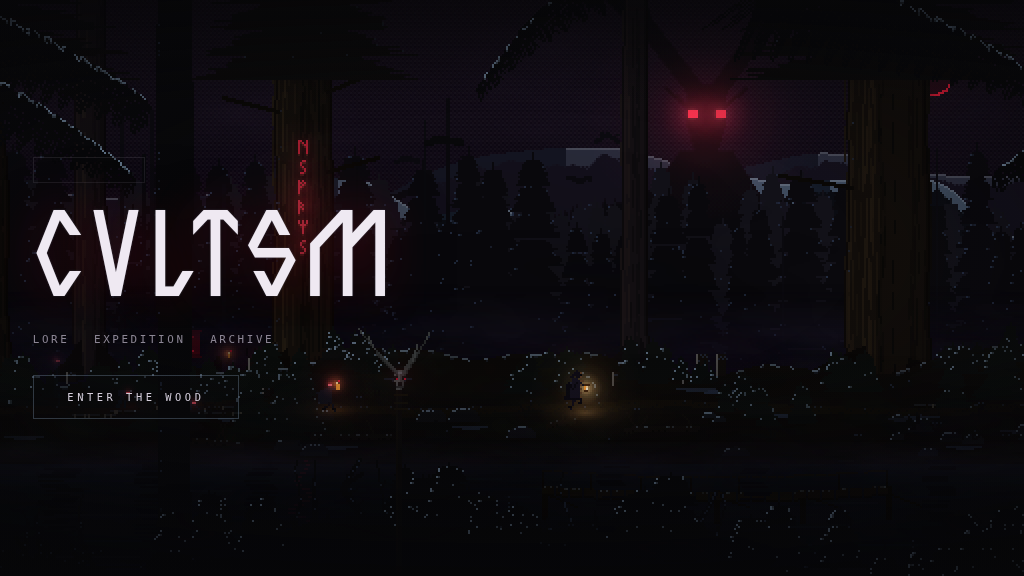
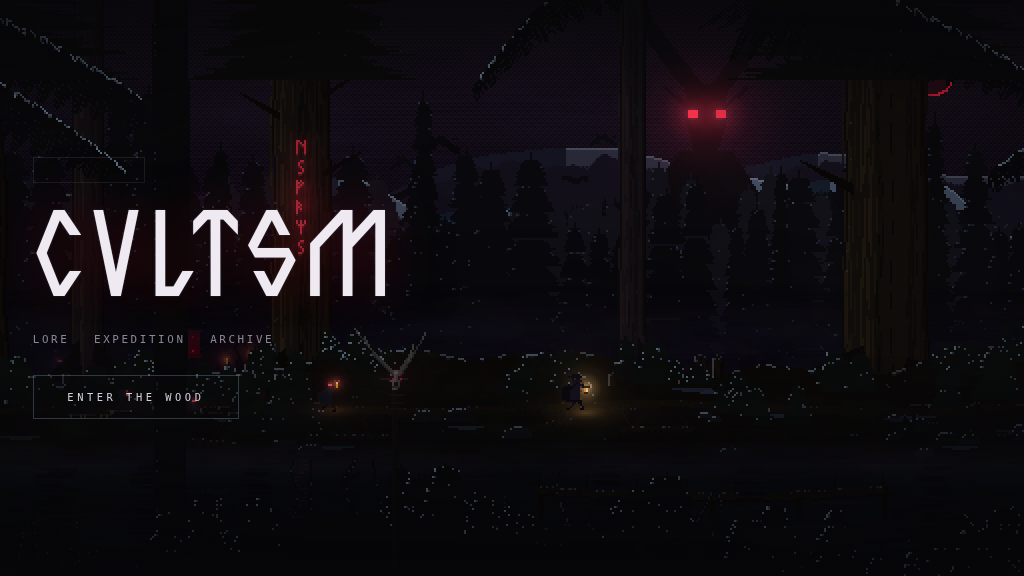
Fix bare poles and stray sticks in the background forest
Three separate sources, all of which rendered as a bare line rather than
anything that reads as a tree.

- The deep forest scattered "bare trunks between the pines" were literally
  flat-topped rectangles 1-3px wide, ending in open sky wherever their random
  height ran out. They are narrow conifers now: same job of breaking up the
  canopy line, but with a crown on top.
- The sentinel limb stubs reached out up to 2.6 trunk-widths while rising only
  a couple of pixels, so they read as sticks floating beside the tree. Drawn
  as tapered wedges now, short and clearly attached.
- Stumps sat at almost pure black with a lit 1px left edge, so the only thing
  that actually rendered was that edge — a bare vertical line standing in the
  undergrowth. The trunk carries its own tone now and the top is splintered
  per column rather than cut square.

Found by rendering the background at 3.4x brightness and scanning four
positions along the world, since at the scene's real exposure these read as
faint lines rather than obvious faults.

Verified: 60fps with no frame over 20ms, no tile seams, no console errors, no
mobile overflow, reduced-motion still byte-identical.

Claude-Session: https://claude.ai/code/session_01GcsBKBmhDLEgLM9aY7efkW

diff --git a/js/scene/deepforest.js b/js/scene/deepforest.js
@@ -12,7 +12,7 @@ import {
   mix, clamp, glow, hexToRgb, shadeRegion,
 } from '../lib/paint.js';
 import { PAL } from '../palette.js';
-import { drawForestBand } from './trees.js';
+import { drawForestBand, drawPine } from './trees.js';
 
 export function buildDeepForest(L, seed) {
   const { W, H } = L;
@@ -47,13 +47,30 @@ export function buildDeepForest(L, seed) {
     rng, step: L.vh * 0.055,
   });
 
-  /* -------------------------------- scattered bare trunks between the pines */
-  for (let i = 0; i < Math.round(W / 40); i++) {
+  /* ------------------ taller spires breaking the line of the canopy -------
+   * These used to be bare rectangles: a flat-topped bar ending in open sky
+   * with nothing on it, which reads as a rendering fault rather than a tree.
+   * They are narrow conifers now — same job of breaking up the skyline, but
+   * they actually have a crown on them.
+   */
+  for (let i = 0; i < Math.round(W / 52); i++) {
     const x = rng.range(0, W);
-    const h = rng.range(L.vh * 0.25, L.vh * 0.5);
-    const w = Math.max(1, Math.round(rng.range(1, 3)));
-    const col = mix(PAL.voidBlack, PAL.mist, rng.range(0.08, 0.22));
-    wrapX(W, x, w + 2, (sx) => rect(c, sx, L.treeBase + L.vh * 0.05 - h, w, h, col));
+    const h = rng.range(L.vh * 0.34, L.vh * 0.54);
+    const halfWidth = h * rng.range(0.085, 0.135);
+    const treeSeed = Math.floor(rng() * 0xffffff);
+    wrapX(W, x, halfWidth + 4, (sx) => {
+      drawPine(c, {
+        x: sx,
+        baseY: L.treeBase + L.vh * 0.05,
+        height: h,
+        halfWidth,
+        color: mix(PAL.voidBlack, PAL.mist, 0.10),
+        snowColor: mix(PAL.frostDeep, PAL.voidSoft, 0.22),
+        snowAmount: 0.13,
+        rng: makeRng(treeSeed),
+        trunk: false,
+      });
+    });
   }
 
   /* ---------------------------------------- ground haze pooled at the base */

diff --git a/js/scene/sentinels.js b/js/scene/sentinels.js
@@ -14,7 +14,7 @@
  * would spill straight over the foliage hanging in front of it.
  */
 import { makeRng } from '../lib/rng.js';
-import { surface, line, wrapX, mix, shade, clamp, glow } from '../lib/paint.js';
+import { surface, fillPoly, wrapX, mix, shade, clamp, glow } from '../lib/paint.js';
 import { PAL } from '../palette.js';
 import { drawGreatTrunk, drawPine } from './trees.js';
 import { RUNES, WHEEL, drawGlyph } from '../runes.js';
@@ -72,12 +72,22 @@ export function buildSentinels(L, seed) {
         x: sx, top: -L.vh * 0.08, baseY, halfWidth: spec.hw, rng: r,
         base: PAL.bark, lit: PAL.barkLit, dark: PAL.barkDark, frost: PAL.frostDeep,
       });
+      /* Broken limb stubs. Drawn as tapered wedges rather than flat lines:
+       * the old version reached out 2.6 trunk-widths while barely rising,
+       * which read as a stick floating beside the tree. */
       for (let i = 0; i < 3; i++) {
-        const y = r.range(L.vy(0.05), L.vy(0.5));
+        const y = r.range(L.vy(0.06), L.vy(0.5));
         const dir = r.chance(0.5) ? -1 : 1;
-        line(c, sx + dir * spec.hw * 0.8, y,
-          sx + dir * spec.hw * r.range(1.6, 2.6), y - r.range(2, 9),
-          shade(PAL.bark, -0.4), 2);
+        const len = spec.hw * r.range(0.8, 1.35);
+        const rise = len * r.range(0.35, 0.7);
+        const root = sx + dir * spec.hw * 0.7;
+        const th = Math.max(2, Math.round(spec.hw * 0.16));
+        fillPoly(c, [
+          [root, y - th],
+          [root + dir * len, y - rise],
+          [root + dir * len, y - rise + 1],
+          [root, y + th],
+        ], shade(PAL.bark, -0.45));
       }
       // canopy shadow from this trunk's crown — onto the overlay surface
       drawPine(cc, {

diff --git a/js/scene/path.js b/js/scene/path.js
@@ -312,15 +312,35 @@ function drawPlank(c, rng, x, y, w, h) {
   }
 }
 
+/**
+ * A broken stump. The body used to sit at almost pure black with a lit 1px
+ * left edge, so all that actually rendered was that single line — a bare
+ * vertical stick standing in the undergrowth. The trunk now carries a tone of
+ * its own and the top is genuinely splintered rather than cut square.
+ */
 function drawStump(c, rng, x, y, vh) {
-  const h = rng.range(vh * 0.012, vh * 0.038);
-  const w = rng.range(vh * 0.008, vh * 0.022);
-  const col = mix(PAL.bark, PAL.voidBlack, 0.35);
-  rect(c, x - w / 2, y - h, w, h, col);
+  const h = rng.range(vh * 0.014, vh * 0.040);
+  const w = Math.max(2, Math.round(rng.range(vh * 0.010, vh * 0.024)));
+  const col = mix(PAL.bark, PAL.voidBlack, 0.12);
+  const left = x - Math.floor(w / 2);
+
+  // splintered crown: each column starts at its own height
+  const tops = [];
   for (let i = 0; i < w; i++) {
-    px(c, x - w / 2 + i, y - h + rng.range(0, h * 0.3), mix(PAL.frostDeep, col, 0.5));
+    const edge = Math.abs(i - (w - 1) / 2) / ((w - 1) / 2 || 1);
+    tops.push(y - h + rng.range(0, h * 0.26) + edge * h * 0.1);
   }
-  vline(c, x - w / 2, y - h, y, shade(col, 0.25));
+
+  for (let i = 0; i < w; i++) {
+    const top = tops[i];
+    vline(c, left + i, top, y, col);
+    // snow caught on the broken face
+    if (rng.chance(0.5)) px(c, left + i, top, mix(PAL.frostDeep, col, 0.35));
+    // grain
+    if (rng.chance(0.4)) vline(c, left + i, top + rng.range(1, h * 0.7), y, shade(col, -0.35));
+  }
+  vline(c, left, tops[0], y, shade(col, 0.18));
+  vline(c, left + w - 1, tops[w - 1], y, shade(col, -0.4));
 }
 
 function drawFallenLog(c, rng, x, y, vh) {
